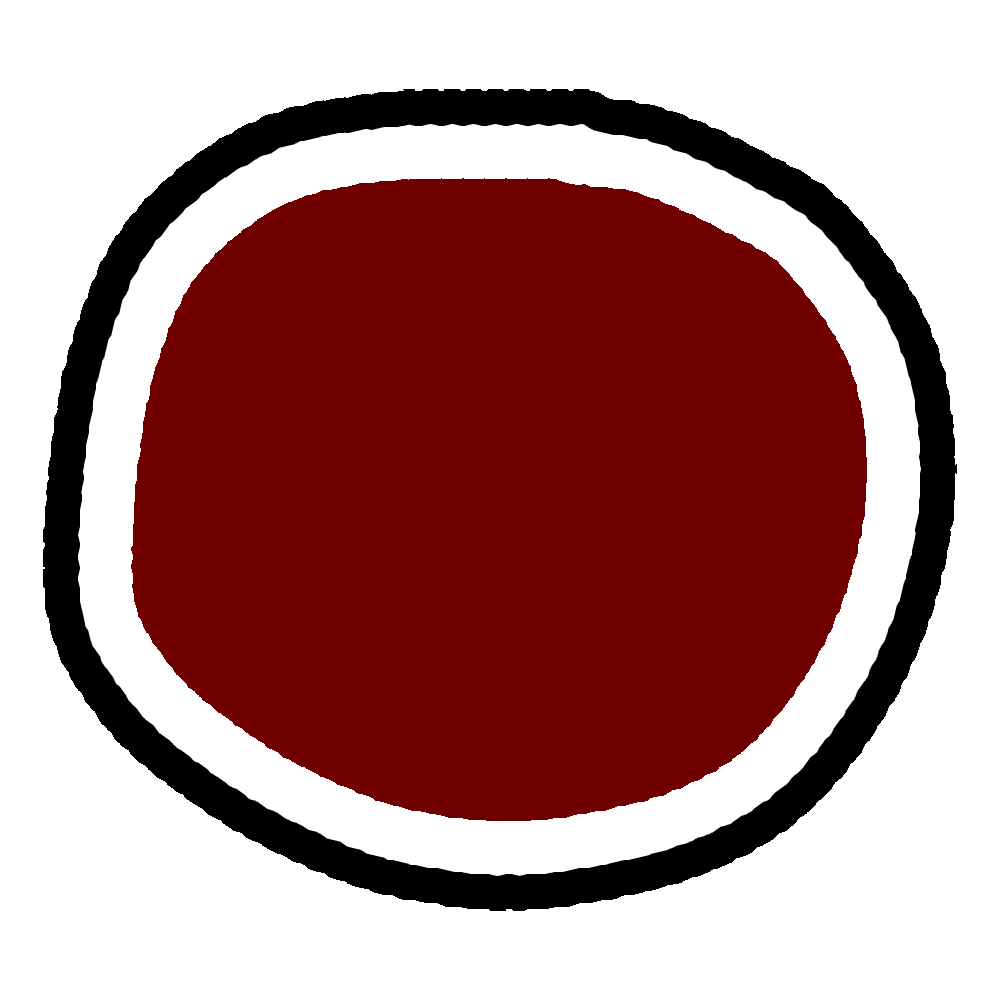
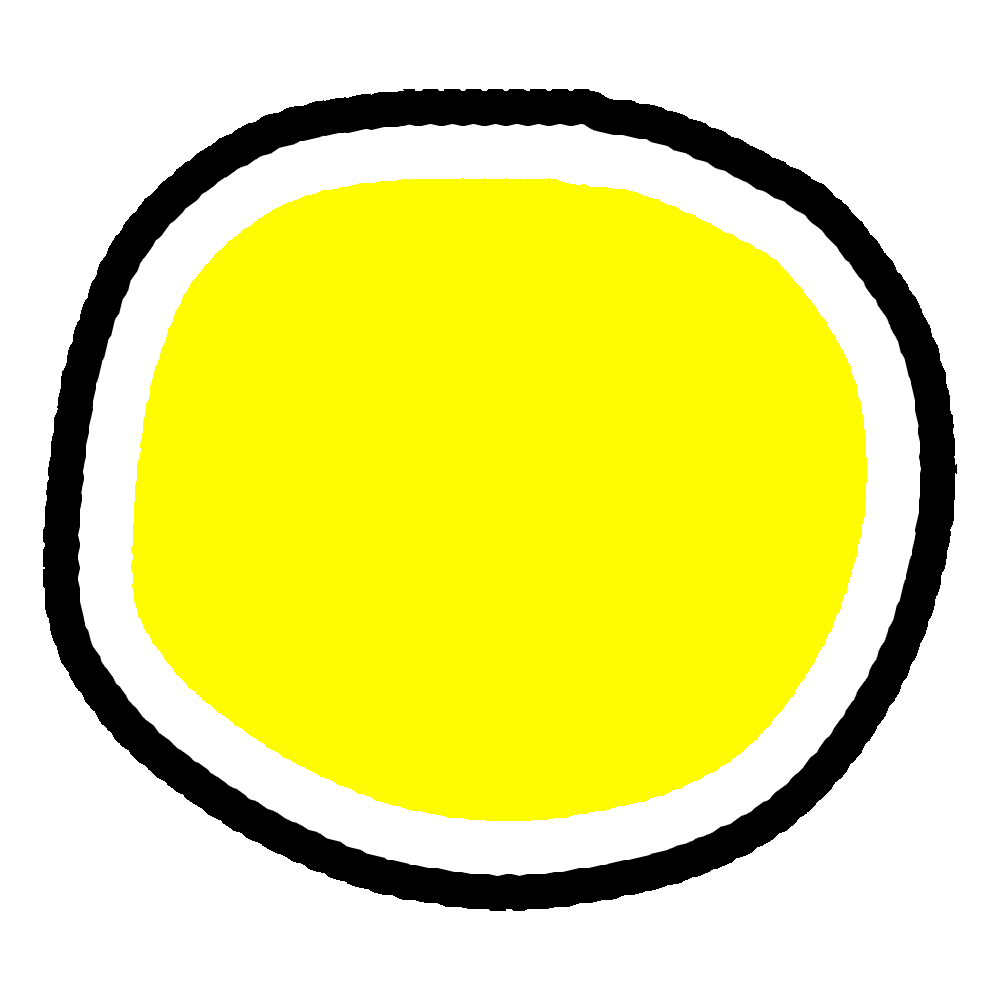
nice

diff --git a/live.html b/live.html
@@ -255,7 +255,7 @@
   </a>
 
   <div class="player-wrap">
-    <iframe src="/livestream-chat-widget.html?v=time-label-font-1"
+    <iframe src="/livestream-chat-widget.html?v=circle-seeker-3"
             title="KNOBSOCK Live"
             allow="accelerometer; autoplay; clipboard-write; encrypted-media; gyroscope; picture-in-picture; fullscreen"
             allowfullscreen></iframe>
